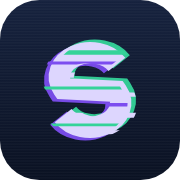
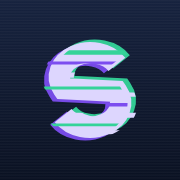
Put the mark on the home screen and hold the splash
iOS reads apple-touch-icon and nothing else for a home-screen shortcut —
it ignores the manifest icons entirely — so the shortcut was falling back
to a generic tile. The link now carries its sizes, alongside the
standalone meta tags that make a launched shortcut a full app window
rather than a Safari page, with the status bar translucent so the
splash's dark ground runs under it.

The icon those two platforms get is the square-cornered tile: both mask
the launcher icon into their own shape, so the tile's own rounding would
have left a ring of ground inside the mask. In-browser icons keep the
rounding.

The splash also gets a floor. Restoring a stored session usually finishes
faster than the splash takes to register as anything but a flash, so it
now stays up for a fixed minimum, and the glitch cycle is shortened so it
fires twice inside that window instead of at most once. The hold is
mount-scoped: App survives sign-out, so it cannot re-fire and strand a
signed-out user behind a second splash.

Claude-Session: https://claude.ai/code/session_01UzxnD9mu3sMJPRnCPFX2ZW

diff --git a/app/src/App.tsx b/app/src/App.tsx
@@ -3,6 +3,7 @@ import {
   lazy,
   memo,
   useCallback,
+  useEffect,
   useLayoutEffect,
   useRef,
   useState,
@@ -116,6 +117,12 @@ export interface ScreenProps {
  */
 export function App() {
   const { session } = useAuth();
+  // Restoring a stored session is usually far quicker than the splash takes
+  // to read as anything but a flash, so the splash is held for a fixed floor
+  // rather than only for as long as the work lasts. Mount-scoped: the App
+  // survives sign-out, so this cannot re-fire and strand a signed-out user
+  // behind a second splash.
+  const splashHeld = useSplashHold();
   // The gate, following the FirstRunOverlay precedent but as a branch: the
   // sign-in screen replaces the shell (there is nothing to navigate while
   // signed out). 'loading' gets a quiet splash rather than the sign-in
@@ -126,7 +133,7 @@ export function App() {
   // deploy. Once signed in, the existing firstRunSeen/steps flow already
   // routes new users to onboarding and returning users to the dashboard.
   const content =
-    session.status === 'loading' ? (
+    session.status === 'loading' || splashHeld ? (
       <AuthSplash />
     ) : session.status === 'unavailable' || session.data == null ? (
       <SignInScreen />
@@ -146,6 +153,21 @@ export function App() {
       <LedgerProvider>{content}</LedgerProvider>
     </>
   );
+}
+
+/** How long the splash stays up at minimum. Long enough for the wordmark to
+ *  land and glitch at least twice, which is what makes it read as the brand's
+ *  opening frame rather than a loading artefact. */
+const SPLASH_MIN_MS = 2400;
+
+/** True until the splash has had its minimum time on screen. */
+function useSplashHold() {
+  const [held, setHeld] = useState(true);
+  useEffect(() => {
+    const id = window.setTimeout(() => setHeld(false), SPLASH_MIN_MS);
+    return () => window.clearTimeout(id);
+  }, []);
+  return held;
 }
 
 /** Boot state while the stored session is restored (or the OAuth redirect is

diff --git a/app/index.html b/app/index.html
@@ -3,7 +3,16 @@
   <head>
     <meta charset="UTF-8" />
     <link rel="icon" type="image/svg+xml" href="/assets/shift-mark.svg" />
-    <link rel="apple-touch-icon" href="/assets/shift-icon-180.png" />
+    <!-- Home-screen identity. iOS reads apple-touch-icon and nothing else —
+         it ignores the manifest icons — and it masks whatever it gets into
+         its own squircle, so this PNG is the square-cornered tile: rounding
+         it here as well would leave a ring of ground inside the mask. -->
+    <link rel="apple-touch-icon" sizes="180x180" href="/assets/shift-icon-180.png" />
+    <meta name="apple-mobile-web-app-capable" content="yes" />
+    <meta name="apple-mobile-web-app-title" content="Shift" />
+    <!-- black-translucent so the splash's dark ground runs under the status
+         bar instead of meeting a white strip at the top of the screen. -->
+    <meta name="apple-mobile-web-app-status-bar-style" content="black-translucent" />
     <!-- The install/launch identity: the manifest's background_color is what
          Android paints behind the icon while the app boots, so it matches the
          in-app splash ground rather than either theme's page colour. -->

diff --git a/app/src/styles/base.css b/app/src/styles/base.css
@@ -510,7 +510,7 @@ h1, h2, h3, h4 { font-family: var(--font-heading); margin: 0; }
   position: absolute;
   inset: 0;
   opacity: 0;
-  animation: splash-tear 3.6s steps(1, end) infinite;
+  animation: splash-tear 1.9s steps(1, end) infinite;
 }
 @keyframes splash-tear {
   0%, 66% { opacity: 0; transform: translateX(0); clip-path: inset(0 0 100% 0); }
@@ -530,7 +530,7 @@ h1, h2, h3, h4 { font-family: var(--font-heading); margin: 0; }
   92% { opacity: 0.85; }
   93% { opacity: 1; }
 }
-.splash-logo { animation: splash-flicker 3.6s ease-in-out infinite; }
+.splash-logo { animation: splash-flicker 1.9s ease-in-out infinite; }
 .splash-caption {
   position: relative;
   font-size: var(--text-body);
